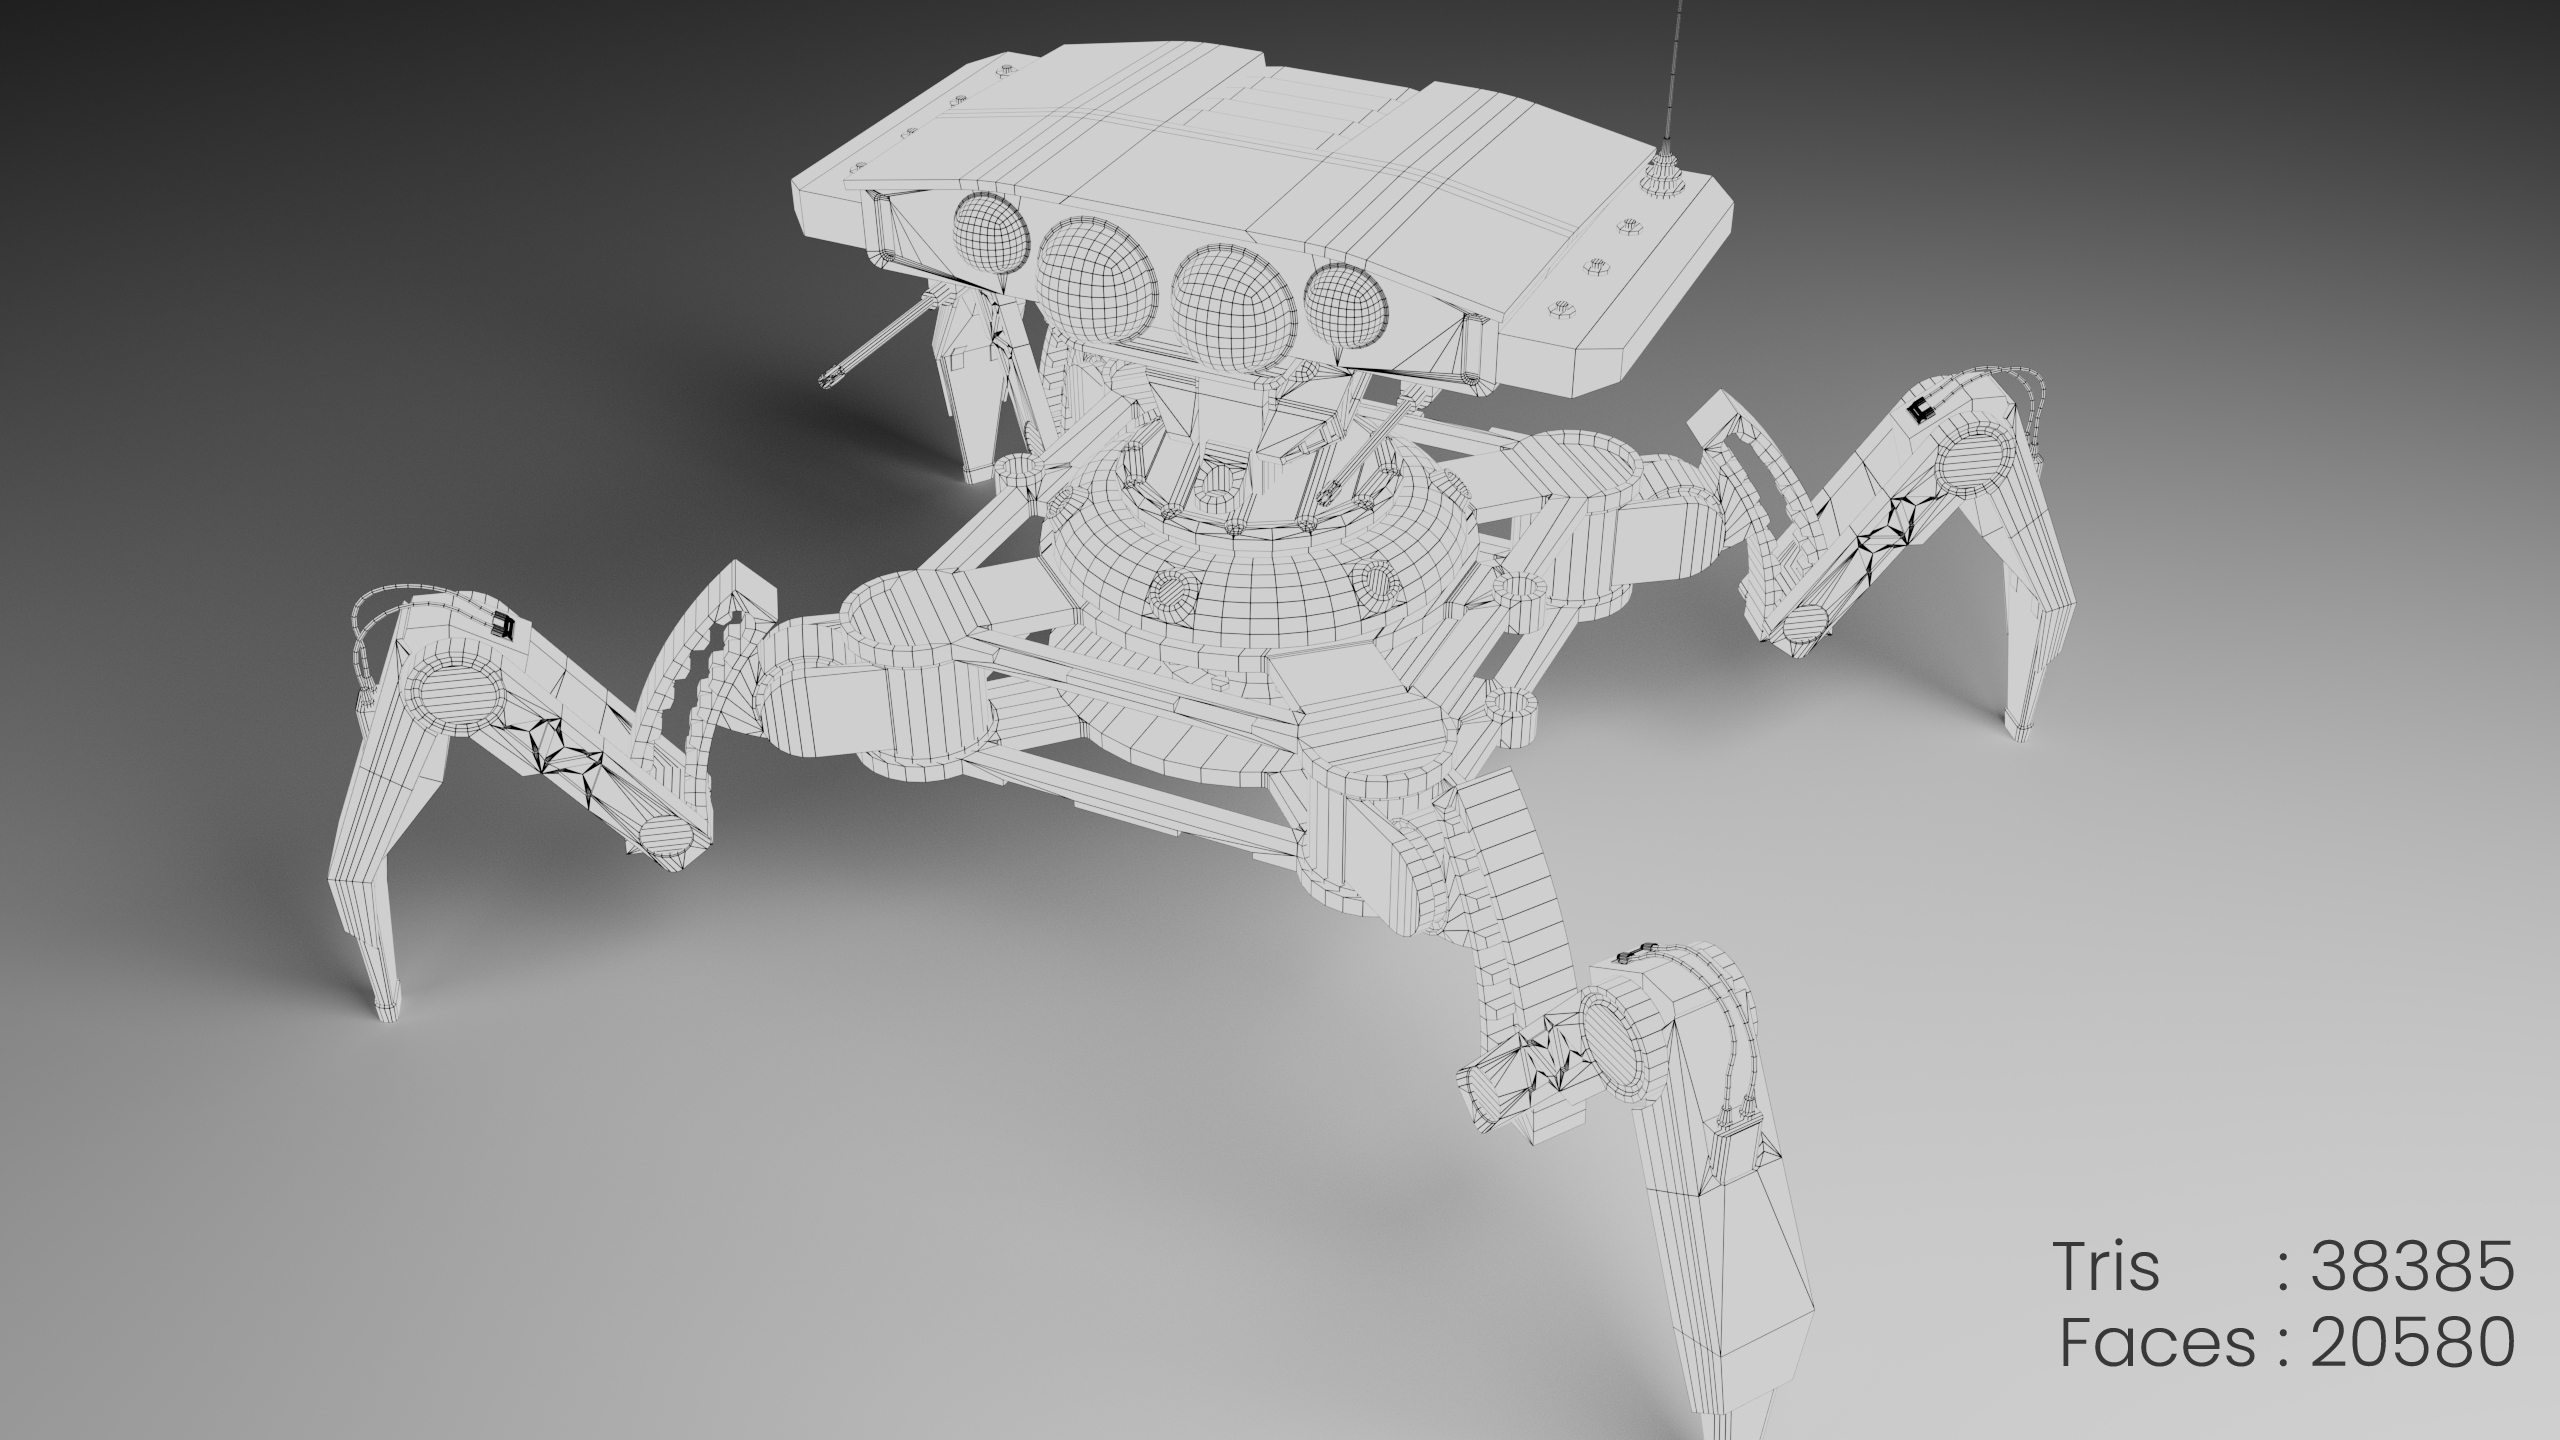
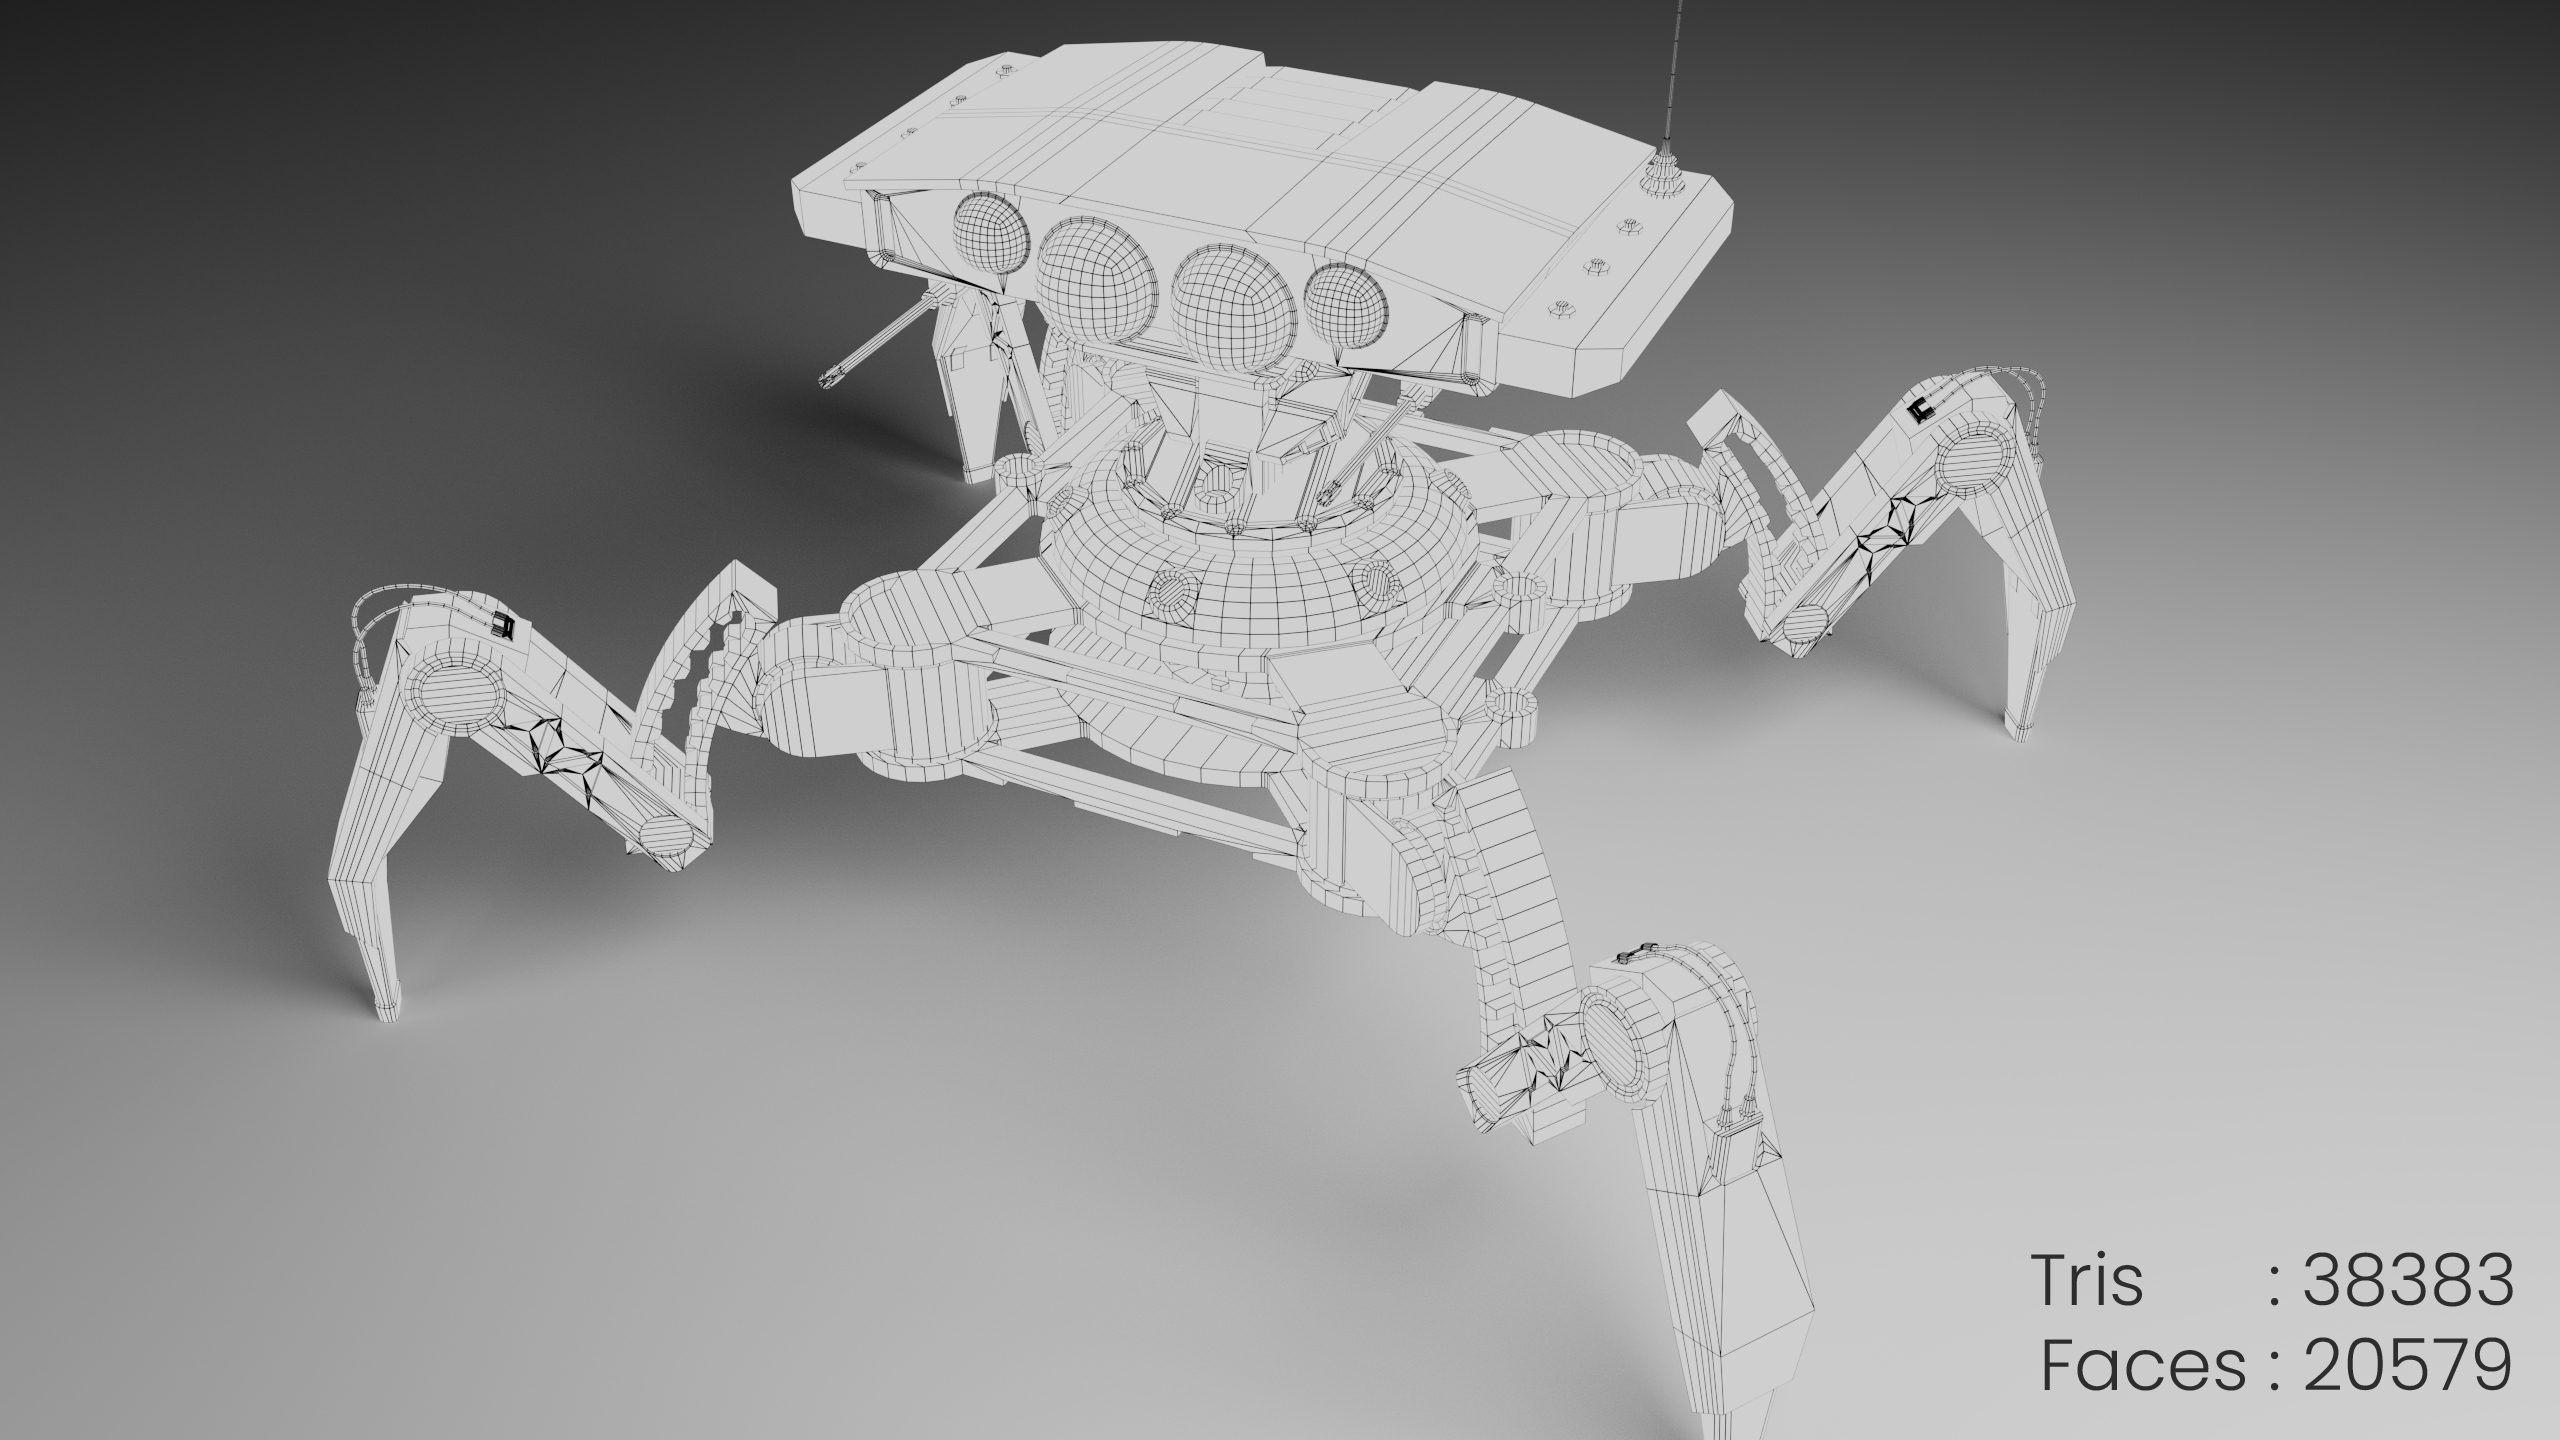
poly count

Changed region(s): [[0.7812, 0.8438, 1.0, 0.9688]]

diff --git a/pages/subPages/3D/SpiderBot.html b/pages/subPages/3D/SpiderBot.html
@@ -97,6 +97,11 @@
         <div class="image-container">
           <img src="../../imgs/3D/SpiderBot/wireframe_1.jpg" alt="Wireframe" />
         </div>
+
+        <div class="image-container">
+          <img src="../../imgs/3D/SpiderBot/UV.jpg" alt="Icon Deep Sea" />
+        </div>
+
         <div class="image-container">
           <img src="../../imgs/3D/SpiderBot/Front_3.jpg" alt="Icon Deep Sea" />
         </div>

diff --git a/pages/subPages/3D/PoliceOfficer.html b/pages/subPages/3D/PoliceOfficer.html
@@ -114,7 +114,7 @@
         </div>
         <div class="image-container">
           <img
-            src="../../imgs/3D/PoliceOfficer/Pose_Wire.png"
+            src="../../imgs/3D/PoliceOfficer/Pose_Wire_Count-01.png"
             alt="wireframe"
           />
         </div>
